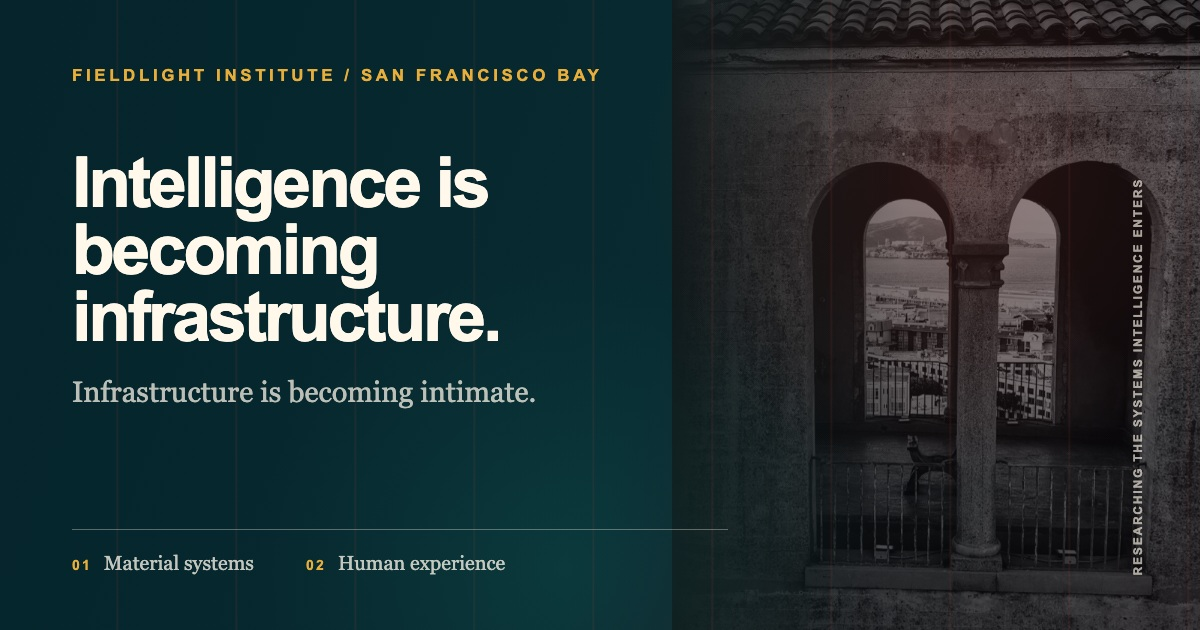
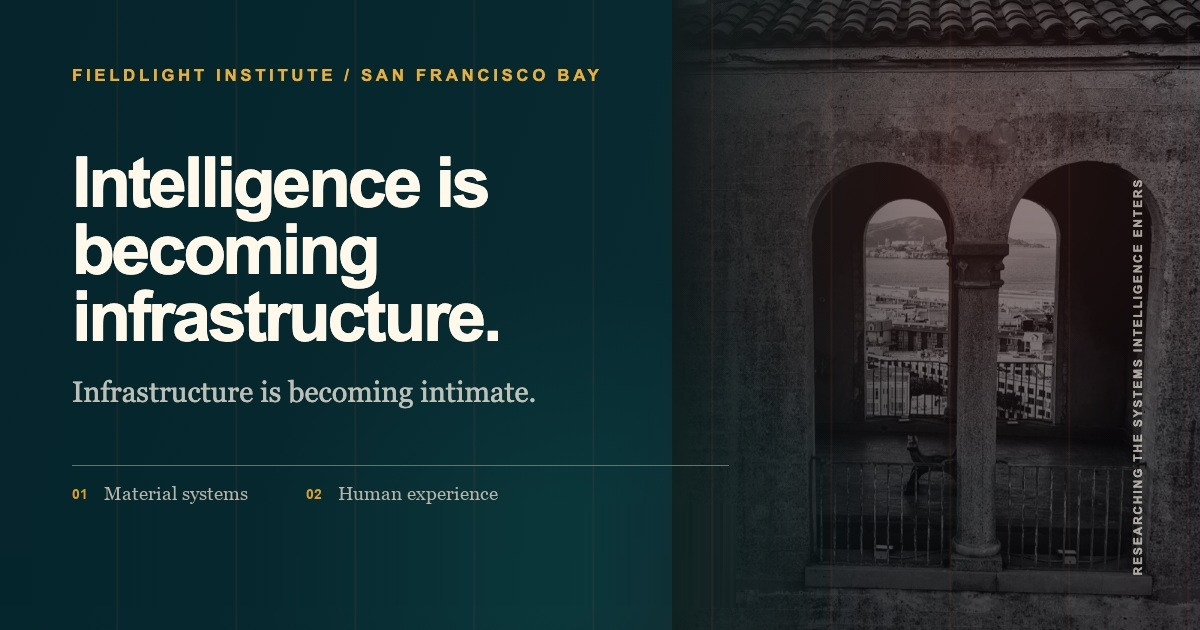
Raise institute share card legend

diff --git a/institute/index.html b/institute/index.html
@@ -14,8 +14,8 @@
     <meta property="og:url" content="https://fieldlight.com/institute/">
     <meta property="og:title" content="Fieldlight Institute">
     <meta property="og:description" content="Intelligence is becoming infrastructure. Infrastructure is becoming intimate.">
-  <meta property="og:image" content="https://fieldlight.com/assets/institute/fieldlight-institute-social-card.jpeg?v=2">
-  <meta property="og:image:secure_url" content="https://fieldlight.com/assets/institute/fieldlight-institute-social-card.jpeg?v=2">
+  <meta property="og:image" content="https://fieldlight.com/assets/institute/fieldlight-institute-social-card.jpeg?v=3">
+  <meta property="og:image:secure_url" content="https://fieldlight.com/assets/institute/fieldlight-institute-social-card.jpeg?v=3">
     <meta property="og:image:type" content="image/jpeg">
     <meta property="og:image:width" content="1200">
     <meta property="og:image:height" content="630">
@@ -23,7 +23,7 @@
     <meta name="twitter:card" content="summary_large_image">
     <meta name="twitter:title" content="Fieldlight Institute">
     <meta name="twitter:description" content="Intelligence is becoming infrastructure. Infrastructure is becoming intimate.">
-  <meta name="twitter:image" content="https://fieldlight.com/assets/institute/fieldlight-institute-social-card.jpeg?v=2">
+  <meta name="twitter:image" content="https://fieldlight.com/assets/institute/fieldlight-institute-social-card.jpeg?v=3">
   <link rel="stylesheet" href="../styles.css?v=18">
   </head>
   <body class="institute-page">
